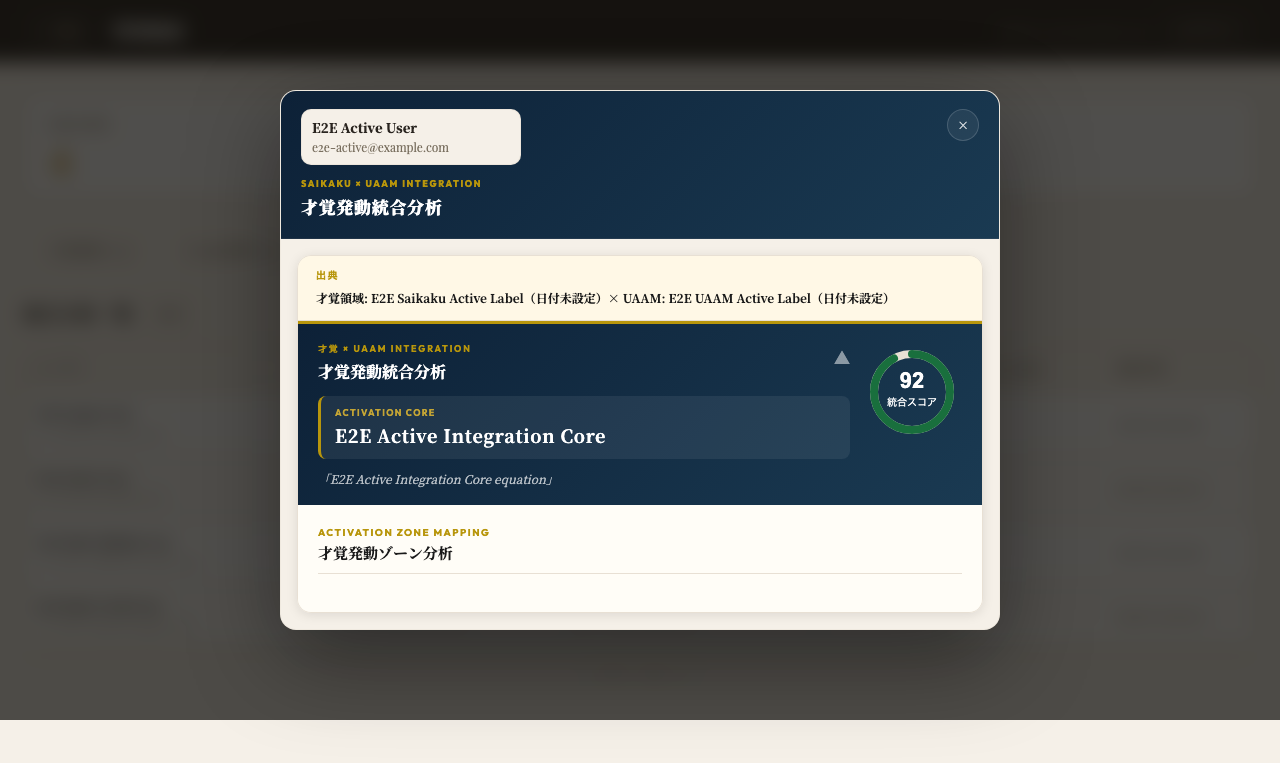
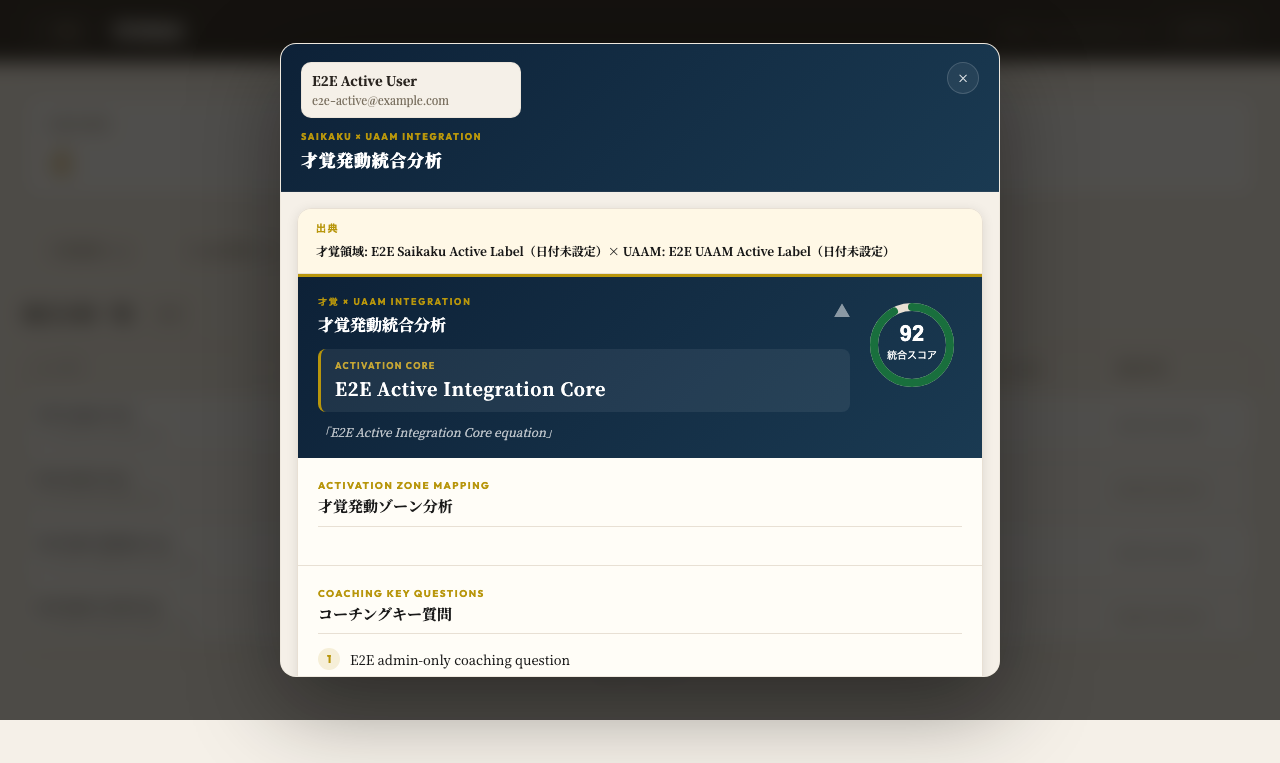
fix(admin): 統合分析詳細モーダルでコーチングキー質問本文を表示
- SaikakuIntegration に hideCoachingAnswers props 追加（default false）
  - true: textarea / 保存ボタン / 保存状態表示を非表示
  - 質問本文 + 番号バッジは引き続き表示
- SaikakuIntegrationModal: coaching_questions: [] 上書きを削除
  - mode='admin' のとき hideCoachingAnswers={true} を SaikakuIntegration に渡す
- 検証: unit 9/74 / modal 1/10 / e2e admin-integrations 1 / coaching-answers 2 (regression OK)

Changed region(s): [[0.2188, 0.0301, 0.7812, 0.9043], [0.25, 0.9345, 0.75, 0.9646]]

diff --git a/src/screens/uaam/SaikakuIntegration.jsx b/src/screens/uaam/SaikakuIntegration.jsx
@@ -320,6 +320,7 @@ export default function SaikakuIntegration({
   status,
   defaultOpen = false,
   readOnly = false,
+  hideCoachingAnswers = false,
   onDirtyChange,
 }) {
   const [open, setOpen] = useState(defaultOpen);
@@ -653,78 +654,84 @@ export default function SaikakuIntegration({
                       <div style={{ fontSize: 13, color: P.text, lineHeight: 1.7, paddingTop: 1,
                         fontFamily: "'Noto Serif JP', serif" }}>{toJP(q)}</div>
                     </div>
-                    <textarea
-                      value={draft}
-                      onChange={(e) => updateDraftAnswer(i, e.target.value)}
-                      disabled={saving}
-                      rows={3}
-                      maxLength={2000}
-                      placeholder="あなたの考えを書いてみてください"
-                      style={{
-                        width: '100%',
-                        boxSizing: 'border-box',
-                        minHeight: 88,
-                        padding: '10px 12px',
-                        border: `1px solid ${P.border}`,
-                        borderRadius: 8,
-                        background: saving ? '#F7F3EC' : P.surface,
-                        color: P.text,
-                        fontSize: 13,
-                        lineHeight: 1.7,
-                        fontFamily: "'Noto Serif JP', serif",
-                        resize: 'vertical',
-                        outlineOffset: 2,
-                        opacity: saving ? 0.72 : 1,
-                      }}
-                    />
+                    {!hideCoachingAnswers && (
+                      <textarea
+                        value={draft}
+                        onChange={(e) => updateDraftAnswer(i, e.target.value)}
+                        disabled={saving}
+                        rows={3}
+                        maxLength={2000}
+                        placeholder="あなたの考えを書いてみてください"
+                        style={{
+                          width: '100%',
+                          boxSizing: 'border-box',
+                          minHeight: 88,
+                          padding: '10px 12px',
+                          border: `1px solid ${P.border}`,
+                          borderRadius: 8,
+                          background: saving ? '#F7F3EC' : P.surface,
+                          color: P.text,
+                          fontSize: 13,
+                          lineHeight: 1.7,
+                          fontFamily: "'Noto Serif JP', serif",
+                          resize: 'vertical',
+                          outlineOffset: 2,
+                          opacity: saving ? 0.72 : 1,
+                        }}
+                      />
+                    )}
                   </div>
                 );
               })}
-              <button
-                type="button"
-                onClick={handleSaveDrafts}
-                disabled={!canSave}
-                style={{
-                  width: '100%',
-                  marginTop: 2,
-                  padding: '12px 16px',
-                  border: 'none',
-                  borderRadius: 8,
-                  background: canSave
-                    ? `linear-gradient(135deg, ${P.gold} 0%, ${P.goldDim} 100%)`
-                    : P.border,
-                  color: canSave ? '#fff' : P.muted,
-                  fontSize: 13,
-                  fontWeight: 700,
-                  cursor: canSave ? 'pointer' : 'not-allowed',
-                  fontFamily: "'Noto Serif JP', serif",
-                  transition: 'opacity 0.2s ease',
-                  outlineOffset: 2,
-                }}
-              >
-                {saving ? '保存中…' : '💾 回答を保存'}
-              </button>
-              {saveError && (
-                <div role="alert" style={{
-                  marginTop: 8,
-                  fontSize: 12,
-                  color: P.score_lo,
-                  textAlign: 'center',
-                  fontFamily: "'Noto Serif JP', serif",
-                }}>
-                  {saveError}
-                </div>
-              )}
-              {savedTime && (
-                <div style={{
-                  marginTop: 8,
-                  fontSize: 11,
-                  color: P.muted,
-                  textAlign: 'center',
-                  fontFamily: "'Outfit', sans-serif",
-                }}>
-                  最終保存: {savedTime}
-                </div>
+              {!hideCoachingAnswers && (
+                <>
+                  <button
+                    type="button"
+                    onClick={handleSaveDrafts}
+                    disabled={!canSave}
+                    style={{
+                      width: '100%',
+                      marginTop: 2,
+                      padding: '12px 16px',
+                      border: 'none',
+                      borderRadius: 8,
+                      background: canSave
+                        ? `linear-gradient(135deg, ${P.gold} 0%, ${P.goldDim} 100%)`
+                        : P.border,
+                      color: canSave ? '#fff' : P.muted,
+                      fontSize: 13,
+                      fontWeight: 700,
+                      cursor: canSave ? 'pointer' : 'not-allowed',
+                      fontFamily: "'Noto Serif JP', serif",
+                      transition: 'opacity 0.2s ease',
+                      outlineOffset: 2,
+                    }}
+                  >
+                    {saving ? '保存中…' : '💾 回答を保存'}
+                  </button>
+                  {saveError && (
+                    <div role="alert" style={{
+                      marginTop: 8,
+                      fontSize: 12,
+                      color: P.score_lo,
+                      textAlign: 'center',
+                      fontFamily: "'Noto Serif JP', serif",
+                    }}>
+                      {saveError}
+                    </div>
+                  )}
+                  {savedTime && (
+                    <div style={{
+                      marginTop: 8,
+                      fontSize: 11,
+                      color: P.muted,
+                      textAlign: 'center',
+                      fontFamily: "'Outfit', sans-serif",
+                    }}>
+                      最終保存: {savedTime}
+                    </div>
+                  )}
+                </>
               )}
             </div>
           )}

diff --git a/src/screens/uaam/__tests__/SaikakuIntegrationModal.test.jsx b/src/screens/uaam/__tests__/SaikakuIntegrationModal.test.jsx
@@ -116,9 +116,13 @@ describe('SaikakuIntegrationModal', () => {
     expect(coachingMocks.loadCoachingAnswers).not.toHaveBeenCalled();
     expect(screen.getByText('Admin Target')).toBeInTheDocument();
     expect(screen.getByText('[email redacted]')).toBeInTheDocument();
-    expect(screen.queryByText('管理者はこの問いに回答しない')).toBeNull();
+    expect(screen.getByText('コーチングキー質問')).toBeInTheDocument();
+    const coachingQuestion = screen.getByText('管理者はこの問いに回答しない');
+    expect(coachingQuestion).toBeInTheDocument();
+    expect(coachingQuestion.previousElementSibling).toHaveTextContent('1');
     expect(screen.queryByPlaceholderText('あなたの考えを書いてみてください')).toBeNull();
     expect(screen.queryByRole('button', { name: /回答を保存/ })).toBeNull();
+    expect(screen.queryByText(/保存中|最終保存/)).toBeNull();
     expect(screen.queryByText('要再生成')).toBeNull();
 
     await user.click(screen.getByTestId('saikaku-integration-modal-backdrop'));
@@ -256,5 +260,29 @@ describe('SaikakuIntegrationModal', () => {
     );
 
     expect(screen.getByRole('button', { name: '再生成（残り 0 回）' })).toBeDisabled();
+  });
+
+  it('shows coaching questions but hides answer controls when hideCoachingAnswers is true', () => {
+    render(
+      <SaikakuIntegration
+        integration={{
+          ...integration('Admin Core'),
+          coaching_questions: ['質問本文だけ表示する'],
+        }}
+        defaultOpen
+        hideCoachingAnswers
+        onSave={vi.fn()}
+        saving
+        lastSavedAt={new Date('2026-05-10T10:00:00.000Z')}
+      />,
+    );
+
+    expect(screen.getByText('コーチングキー質問')).toBeInTheDocument();
+    const coachingQuestion = screen.getByText('質問本文だけ表示する');
+    expect(coachingQuestion).toBeInTheDocument();
+    expect(coachingQuestion.previousElementSibling).toHaveTextContent('1');
+    expect(screen.queryByPlaceholderText('あなたの考えを書いてみてください')).toBeNull();
+    expect(screen.queryByRole('button', { name: /回答を保存/ })).toBeNull();
+    expect(screen.queryByText(/保存中|最終保存/)).toBeNull();
   });
 });

diff --git a/src/screens/uaam/SaikakuIntegrationModal.jsx b/src/screens/uaam/SaikakuIntegrationModal.jsx
@@ -164,9 +164,6 @@ export default function SaikakuIntegrationModal({
   const selectedSummary = summaries[selectedIndex] ?? summaries[0] ?? integrationSummary ?? null;
   const selectedSource = sourceFromSummary(selectedSummary, source);
   const integration = integrationBodyFromSummary(selectedSummary);
-  const displayIntegration = isAdminMode && integration
-    ? { ...integration, coaching_questions: [] }
-    : integration;
   const legacy = isLegacyFallback(selectedSummary);
   const stale = !isAdminMode && selectedSummary?.status === 'stale';
 
@@ -360,7 +357,7 @@ export default function SaikakuIntegrationModal({
             </label>
           )}
 
-          {displayIntegration ? (
+          {integration ? (
             <div style={{
               borderRadius: 14,
               overflow: 'hidden',
@@ -368,7 +365,7 @@ export default function SaikakuIntegrationModal({
               border: '1px solid #E8E0D4',
             }}>
               <SaikakuIntegration
-                integration={displayIntegration}
+                integration={integration}
                 source={selectedSource}
                 status={isAdminMode ? undefined : selectedSummary?.status}
                 answersMap={isAdminMode ? {} : answersMap}
@@ -378,6 +375,7 @@ export default function SaikakuIntegrationModal({
                 onDirtyChange={isAdminMode ? undefined : setHasUnsavedAnswers}
                 defaultOpen
                 readOnly
+                hideCoachingAnswers={isAdminMode}
               />
             </div>
           ) : (

diff --git a/src/screens/__tests__/AdminScreen.integrations-tab.test.jsx b/src/screens/__tests__/AdminScreen.integrations-tab.test.jsx
@@ -260,9 +260,13 @@ describe('AdminScreen integrations tab', () => {
     expect(within(dialog).getAllByText(/Active Integration Core/).length).toBeGreaterThan(0);
     expect(within(dialog).getByText(/Saikaku Active Label/)).toBeInTheDocument();
     expect(within(dialog).getByText(/UAAM Active Label/)).toBeInTheDocument();
-    expect(within(dialog).queryByText('Admin should not edit this coaching question')).toBeNull();
+    expect(within(dialog).getByText('コーチングキー質問')).toBeInTheDocument();
+    const coachingQuestion = within(dialog).getByText('Admin should not edit this coaching question');
+    expect(coachingQuestion).toBeInTheDocument();
+    expect(coachingQuestion.previousElementSibling).toHaveTextContent('1');
     expect(within(dialog).queryByPlaceholderText('あなたの考えを書いてみてください')).toBeNull();
     expect(within(dialog).queryByRole('button', { name: /保存|削除|再生成/ })).toBeNull();
+    expect(within(dialog).queryByText(/保存中|最終保存/)).toBeNull();
     expect(fetch.mock.calls.map(([url]) => url)).not.toContain('/api/me/coaching-answers');
 
     await userEvent.keyboard('{Escape}');

diff --git a/tests/e2e/admin-integrations.spec.js b/tests/e2e/admin-integrations.spec.js
@@ -249,9 +249,13 @@ test('admin can inspect integrations list and shared read-only detail modal', as
   await expect(dialog.getByText('E2E Active Integration Core', { exact: true })).toBeVisible();
   await expect(dialog.getByText('E2E Saikaku Active Label')).toBeVisible();
   await expect(dialog.getByText('E2E UAAM Active Label')).toBeVisible();
-  await expect(dialog.getByText('E2E admin-only coaching question')).toHaveCount(0);
+  await expect(dialog.getByText('コーチングキー質問')).toBeVisible();
+  const coachingQuestion = dialog.getByText('E2E admin-only coaching question');
+  await expect(coachingQuestion).toBeVisible();
+  await expect(coachingQuestion.locator('xpath=preceding-sibling::*[1]')).toHaveText('1');
   await expect(dialog.getByPlaceholder('あなたの考えを書いてみてください')).toHaveCount(0);
   await expect(dialog.getByRole('button', { name: /回答を保存/ })).toHaveCount(0);
+  await expect(dialog.getByText(/保存中|最終保存/)).toHaveCount(0);
   expect(coachingRequests).toHaveLength(0);
   await page.screenshot({ path: `${screenshotDir}/integrations-tab-modal.png`, fullPage: true });
 